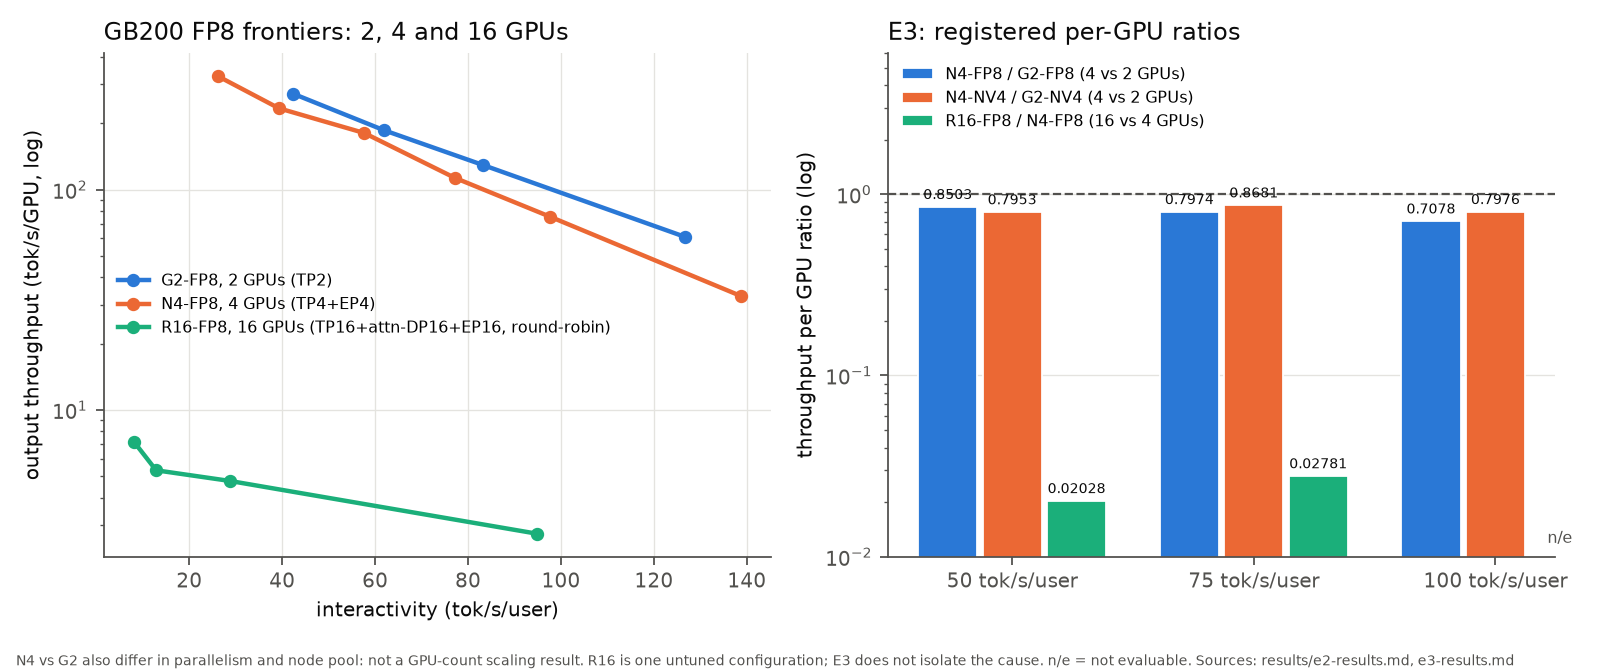
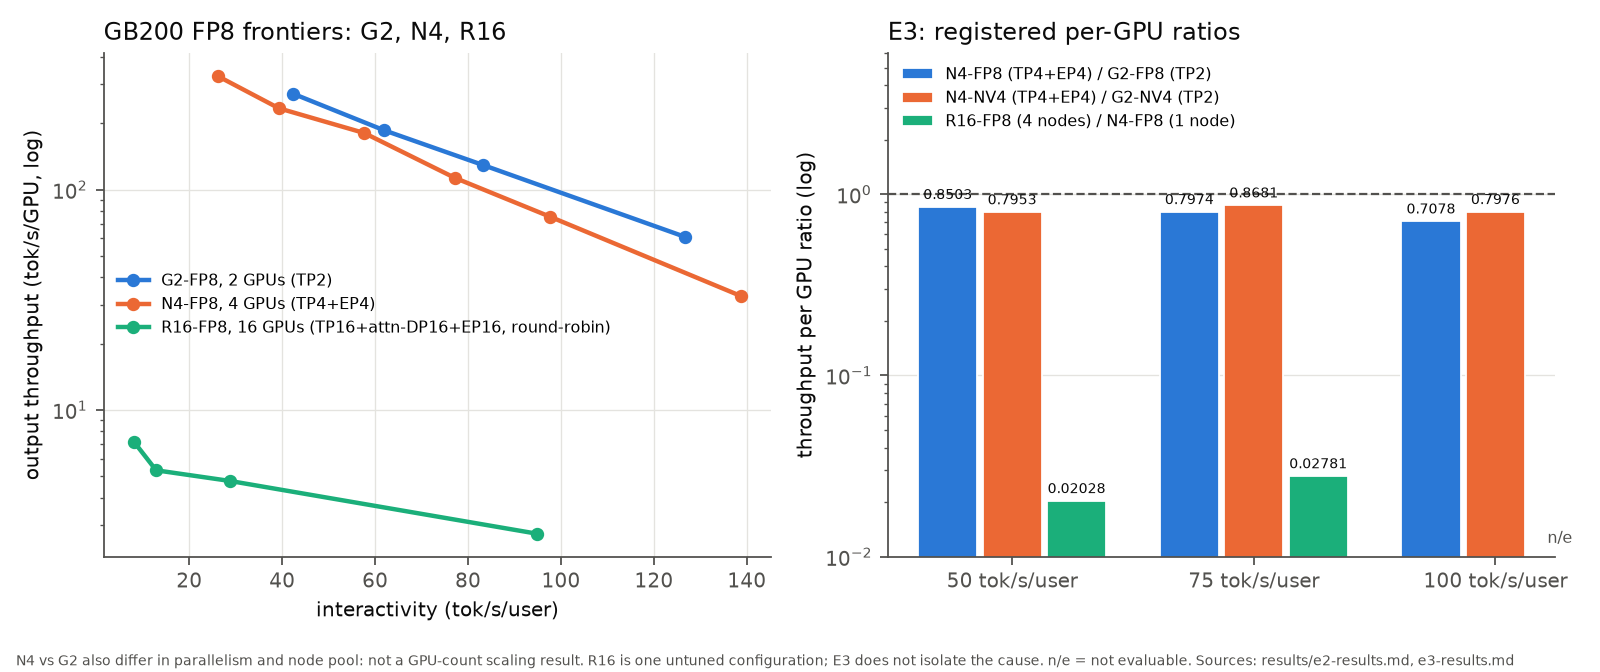
main study summary: apply independent review fixes
Drop causal wording, keep the CLASSIFIER-GAP and F-BRIDGE caveats next to
the E4 claim, label Q3 numbers as observational, and stop framing the E3
figure as GPU-count scaling.

Changed region(s): [[0.625, 0.0938, 0.7812, 0.1875], [0.2188, 0.0312, 0.375, 0.0625]]

diff --git a/main-study/figures/make_figures.py b/main-study/figures/make_figures.py
@@ -91,9 +91,9 @@ def fig_e3():
     }
     # e3-results.md:24, :25, :28
     ratios = {
-        "N4-FP8 / G2-FP8 (4 vs 2 GPUs)": [0.8503, 0.7974, 0.7078],
-        "N4-NV4 / G2-NV4 (4 vs 2 GPUs)": [0.7953, 0.8681, 0.7976],
-        "R16-FP8 / N4-FP8 (16 vs 4 GPUs)": [0.02028, 0.02781, None],
+        "N4-FP8 (TP4+EP4) / G2-FP8 (TP2)": [0.8503, 0.7974, 0.7078],
+        "N4-NV4 (TP4+EP4) / G2-NV4 (TP2)": [0.7953, 0.8681, 0.7976],
+        "R16-FP8 (4 nodes) / N4-FP8 (1 node)": [0.02028, 0.02781, None],
     }
     fig, (left, right) = plt.subplots(1, 2, figsize=(10, 4.2))
     for color, (label, pts) in zip(SERIES, frontiers.items()):
@@ -102,7 +102,7 @@ def fig_e3():
     left.set_yscale("log")
     left.set_xlabel("interactivity (tok/s/user)")
     left.set_ylabel("output throughput (tok/s/GPU, log)")
-    left.set_title("GB200 FP8 frontiers: 2, 4 and 16 GPUs", loc="left", color=INK)
+    left.set_title("GB200 FP8 frontiers: G2, N4, R16", loc="left", color=INK)
     left.legend(frameon=False, fontsize=7)
     left.grid(True, axis="x", color=GRID, linewidth=0.6)
 
@@ -151,7 +151,8 @@ def fig_e4():
         ax.set_xticklabels(classes, rotation=35, ha="right")
         ax.set_ylim(-0.6, 0.75)
         ax.set_ylabel("share of per-token GPU-time difference")
-        ax.set_title(f"E4 Q1 {pair}: no single dominant class", loc="left", color=INK)
+        flag = " (CLASSIFIER-GAP flag)" if pair.startswith("G2-FP8") else ""
+        ax.set_title(f"E4 Q1 {pair}: no single dominant class{flag}", loc="left", color=INK, fontsize=9)
         ax.legend(frameon=False, fontsize=7, loc="upper left")
 
     # e4-results.md:161-163 (Q3, R16 vs N4 at c = 1–16, observational CPU log counts)

diff --git a/main-study/SUMMARY.md b/main-study/SUMMARY.md
@@ -2,55 +2,55 @@
 
 **Question.** One MoE model, one agentic multi-turn workload, one SGLang commit: how do GB200 FP8, GB200 NVFP4 and
 H200 FP8 differ in latency, throughput per GPU and prefix-cache reuse, and where does decode-step GPU time go?
+Results: [E1](results/e1-results.md), [E2](results/e2-results.md), [E3](results/e3-results.md),
+[E4](results/e4-results.md), each frozen before running and independently scored.
 
 **Setup.**
 - Model: Qwen3-235B-A22B-Instruct-2507, public FP8 and NVFP4 checkpoints (quantized by different parties), bf16 KV cache.
-- Workload: closed-loop replay of SWE agent trajectories (`nebius/SWE-rebench-openhands-trajectories`) with recorded assistant content.
+- Workload: closed-loop replay of SWE agent sessions (`nebius/SWE-rebench-openhands-trajectories`) with recorded assistant content.
 - Platforms: 2 × GB200 TP2; 4 × GB200 TP4 + EP4; 16 × GB200 over four nodes; 2 × H200 TP2, 4 × H200 TP4, 8 × H200 TP8 + EP8; 8 × H100 TP8 + EP8 on another cluster.
-- Software: one SGLang nightly, `a6a8c56015b8`; MoE and attention backends on `auto`.
-- Evidence: frozen preregistrations, independent scoring, nsys attribution in E4. Results: [E1](results/e1-results.md), [E2](results/e2-results.md), [E3](results/e3-results.md), [E4](results/e4-results.md).
+- Software: one SGLang nightly, `a6a8c56015b8`. GB200 logged the `flashinfer_trtllm` MoE runner; the H200 MoE backend is not established.
 
 ## Headline findings
 
 1. **Same 2 GPUs, low load (E1, c = 1).** TPOT p50 is 7.943 ms on GB200 FP8, 9.932 ms on H200 FP8 (ratio 0.800) and
    6.625 ms on GB200 NVFP4 (0.834 of FP8). *Caveat:* the arms differ in kernel path, HBM bandwidth, KV capacity and
-   host CPU, so no single cause; the H200 MoE backend is not established. NVFP4 is not shown lossless: 30 GSM8K
-   questions differ against FP8 (limit 20), and top-1 agreement with BF16 is 0.94592 against 0.96967.
-2. **At c = 32 on 2 GPUs the KV cache decides the result (E1).** H200 FP8 TTFT p50 is 27,730.2 ms and its prefix hit
+   host CPU, so there is no single cause. NVFP4 is not shown lossless: 30 GSM8K questions differ against FP8 (limit
+   20), and top-1 agreement with BF16 is 0.94592 against 0.96967.
+2. **At c = 32 on 2 GPUs, serving is capacity-limited (E1).** H200 FP8 TTFT p50 is 27,730.2 ms and its prefix hit
    rate 31.07 %, against 92.64 % on GB200 FP8. *Caveat:* the KV pool is 0.16 of the working set on H200 and 0.50 on
-   GB200 FP8. This is capacity-limited serving, not GPU speed.
+   GB200 FP8, so these points measure capacity-limited serving, not GPU speed.
 3. **Each platform at its own configuration (E2, throughput per GPU at 50 / 75 / 100 tok/s/user).** GB200 FP8 TP2 ÷
    H200 TP4 = 2.0080 / 2.1141 / 2.1756; GB200 NVFP4 TP2 ÷ H200 TP4 = 3.3202 / 3.9475 / 4.3252. H200 TP8 + EP8 ÷ TP4 =
-   0.6158 / 0.5347 / 0.2827; this drop is not attributed to GPU count or expert parallelism alone. *Caveat:* output
-   tokens only; not a cost ratio or a GPU ranking. H100 ÷ H200 (0.2599 / 0.3005) ran on a different cluster, driver
-   and container runtime, so **it is not controlled**.
-4. **No single kernel class explains GB200 TP2 vs H200 TP4 (E4).** The F-DOM verdict is "no single dominant class" for
-   both pairs. For G2-FP8 vs H4 the largest share of the per-token GPU-time difference is `other_known` (on H200 almost
-   all activation and FP8 activation-quantization kernels): 0.5839 / 0.4369 / 0.6363 at B = 4 / 8 / 16. But
-   `moe_gemm` comes close (0.2800 / 0.3942 / 0.3546), and the overlap term is about as large. For H8 vs H4,
-   communication carries 0.2476 / 0.2991 / 0.3392 of the difference ("partial"). *Caveat:* descriptive, in
-   profiler-attached decode windows only, one job per configuration, no ablation. For GB200 NVFP4 vs H4 at 100
-   tok/s/user, decode steps do not account for E2's ratio (quotient 1.6394).
-5. **The 16-GPU result is a configuration effect (E3).** One untuned server across four nodes (TP16 + attention-DP16 +
-   EP16, round-robin dispatch) gives 0.02028 / 0.02781 of the 4-GPU node's throughput per GPU at 50 / 75 tok/s/user.
-   Its logs show a prefill cached fraction of 0.48–0.61 against 0.95–0.96, and 9.4–13× more new prefill tokens.
-   *Caveat:* these signals co-occur with the low ratio, but the cause is not isolated, and this is not a 16-GPU,
-   rack-scale or interconnect claim. Separately, 4 GPUs ÷ 2 GPUs on GB200 FP8 is 0.8503 / 0.7974 / 0.7078. This is
-   not GPU-count scaling, because parallelism and node pool also differ.
+   0.6158 / 0.5347 / 0.2827, which is not attributed to GPU count or expert parallelism alone. *Caveat:* output tokens
+   only; not a cost ratio or a GPU ranking. H100 ÷ H200, both 8 GPUs TP8 + EP8 (0.2599 / 0.3005), **is not
+   controlled**: different cluster, driver and container runtime.
+4. **No single kernel class dominates the GB200 TP2 vs H200 TP4 difference (E4).** The F-DOM verdict is "no single
+   dominant class" for both pairs. For G2-FP8 vs H4 the largest share of the per-token GPU-time difference is
+   `other_known` (on H200 almost all activation and FP8 activation-quantization kernels): 0.5839 / 0.4369 / 0.6363 at
+   B = 4 / 8 / 16; it dominates only at B = 4, since at B = 8 and 16 `moe_gemm` (0.3942 / 0.3546) is more than half
+   of it. The GB200 activation kernel sits in `moe_other`, a flagged CLASSIFIER-GAP that would not change
+   the verdict. For H8 vs H4, communication carries 0.2476 / 0.2991 / 0.3392 of the difference ("partial").
+   *Caveat:* descriptive, profiled decode windows only, one job per configuration, no ablation; the decode
+   attribution bridges to E2 only for G2-FP8/H4 at 75 and 100 and H8/H4 at 75.
+5. **The 16-GPU result belongs to one untuned configuration (E3).** One server across four nodes (TP16 +
+   attention-DP16 + EP16, round-robin dispatch) gives 0.02028 / 0.02781 of the one-node, 4-GPU throughput per GPU at
+   50 / 75 tok/s/user. E4 Q3 read the E3 logs after the fact (observational, not preregistered) and found a prefill
+   cached fraction of 0.48–0.61 against 0.95–0.96, and 9.4–13× more new prefill tokens. *Caveat:* these signals
+   co-occur with the low ratio, but the cause is not isolated. Not a 16-GPU, rack-scale or interconnect claim.
 
-Figures (built by [`figures/make_figures.py`](figures/make_figures.py) from the results files only):
-[E2 ratios](figures/fig1_e2_per_gpu_ratios.png) · [E3 scaling](figures/fig2_e3_scaling.png) ·
-[E4 attribution and Q3](figures/fig3_e4_attribution_q3.png).
+Figures, from [`figures/make_figures.py`](figures/make_figures.py): [E2 ratios](figures/fig1_e2_per_gpu_ratios.png) ·
+[E3 configurations](figures/fig2_e3_scaling.png) · [E4 attribution and Q3](figures/fig3_e4_attribution_q3.png).
 
 ## What this study does not show
 
 - No cost, price-per-token, energy or hardware ranking. GB200 here is not B200.
 - No single-cause attribution of any ratio. E4 splits time into classes; it does not test causes.
-- Prefix hit rates are not estimates for real agentic serving, because the replay reuses recorded answers rather than server-generated KV.
+- Prefix hit rates are not estimates for real serving, because the replay uses recorded assistant content.
 - No other model, context length, workload or SGLang version.
 
 ## What I would do next
 
-Re-run the four-node, 16-GPU configuration with cache-aware (prefix-affinity) request dispatch in place of
-round-robin, keeping every other flag fixed, under a new preregistration. This tests whether lost prefix reuse
-accounts for a large part of the 0.02028 / 0.02781 ratios. The result could go either way.
+Re-run the four-node configuration with cache-aware (prefix-affinity) dispatch in place of round-robin. Every other
+flag stays fixed, under a new preregistration. This tests whether lost prefix reuse accounts for a large part of the
+0.02028 / 0.02781 ratios, and the result could go either way.

diff --git a/main-study/TALK_2MIN.md b/main-study/TALK_2MIN.md
@@ -5,30 +5,30 @@
 Spoken numbers are rounded; the exact values are in [SUMMARY.md](SUMMARY.md) and the results files.
 
 I served one large mixture-of-experts model, Qwen3 235B, with SGLang on H200 and on GB200.
-The workload replays real coding-agent sessions, so every turn resends a long shared prefix.
-I froze each experiment's predictions before running it, and someone else scored the raw data.
+The workload replays real coding-agent sessions; at low load the prefix-cache hit rate is about 95 percent.
+I froze the predictions before each run, and someone else scored the raw data.
+Most first-round predictions confirmed directions I had seen in pilot runs.
 
-First, on the same two GPUs at low load, GB200 FP8 decodes faster than H200 FP8.
-The time per output token is 7.9 against 9.9 milliseconds.
-NVFP4 on GB200 is faster again, 6.6 milliseconds, but it is not lossless.
-More of its answers change than the preregistered limit allows, and it agrees less often with a BF16 reference.
+First, on the same two GPUs at low load, GB200 FP8 decodes faster than H200 FP8: 7.9 against 9.9 milliseconds per token.
+NVFP4 on GB200 is faster again, 6.6 milliseconds, but not lossless.
+More answers change than the preregistered limit allows, and it agrees less often with a BF16 reference.
 
-Second, at 32 concurrent sessions on two H200s, the KV cache holds only 16 percent of the working set.
+Second, at 32 sessions on two H200s, the KV cache holds only 16 percent of the working set.
 Prefix hits fall to 31 percent, and time to first token reaches 27.7 seconds.
 That is a capacity limit, not GPU speed.
 
-Third, I let each platform use its own configuration and compared throughput per GPU at the same interactivity.
-GB200 FP8 on two GPUs gives 2.0 to 2.2 times H200 on four GPUs, and NVFP4 gives about 3.3 to 4.3 times.
-Going from four H200s to eight with expert parallelism lowers throughput per GPU.
+Third, each platform used its own configuration, and I compared throughput per GPU at the same interactivity.
+GB200 FP8 on two GPUs gives 2.0 to 2.2 times H200 on four GPUs; NVFP4 gives 3.3 to 4.3 times.
+That is output tokens only, not cost.
+Eight H200s with expert parallelism give less per GPU than four, and I don't pin that on one factor.
 
-Fourth, I profiled decode steps with nsys to see where the gap goes.
-No single kernel class dominates.
-Activation and quantization kernels on H200 and the MoE GEMMs both carry large shares, and so does kernel overlap.
+Fourth, I profiled decode steps with nsys and split GPU time by kernel class.
+No single class dominates.
+Activation and quantization kernels on H200 and the MoE GEMMs both carry large shares, and the overlap correction is about as large.
 
-Last, one untuned server across four GB200 nodes gave only about 2 to 3 percent of a single node's throughput per GPU.
-It used round-robin dispatch, and its cached prefill fraction fell from about 95 percent to between 48 and 61 percent.
-I did not isolate the cause.
-So the next experiment is the same setup with cache-aware routing.
+Last, one untuned server across four GB200 nodes gave only 2 to 3 percent of one node's throughput per GPU.
+It used round-robin dispatch, and its cached prefill fraction was 48 to 61 percent, against about 95 on one node.
+I did not isolate the cause, so the next experiment is the same setup with cache-aware routing.
 
 ## Likely questions
 
@@ -42,15 +42,16 @@ A: KV capacity. The pool was 0.16 of the working set, prefix hits fell to 31.07 
 seconds. At that point I am measuring eviction and queueing, not kernel speed.
 
 **Q: Why did eight H200s give less per GPU than four?**
-A: I measured that it did: 0.6158 to 0.2827 of the four-GPU value. In decode windows communication carries 0.2476 to 0.3392 of the
-per-token GPU-time difference, and the `other_known` class is the largest other term. I have
-no ablation, so I don't name one cause.
+A: I measured that it did: about 0.62 down to 0.28 of the four-GPU value. In decode windows communication carries
+about a quarter to a third of the per-token GPU-time difference, and the activation and quantization kernels are the
+largest other term. The decode numbers match the serving ratio only at 75 tokens per second per user. I have no
+ablation, so I don't name one cause.
 
 **Q: Is NVFP4 safe to use?**
 A: GSM8K accuracy was about the same, 95.45 against 95.53 percent. But 30 questions changed answers against FP8, over the
 limit of 20, and top-1 agreement with BF16 was 0.946 against 0.970. So I can't call it lossless.
 
 **Q: Why was the 16-GPU server so slow?**
-A: I don't know the cause. It was one untuned configuration with round-robin dispatch. The logs show much less
-prefix reuse, many more prefill tokens and more decode steps without CUDA graphs. Those co-occur with the slowdown,
+A: I don't know the cause. It was one untuned configuration with round-robin dispatch. The logs, read after the fact and not
+preregistered, show much less prefix reuse, many more prefill tokens and more decode log lines without CUDA graphs. Those co-occur with the slowdown,
 but nothing isolates which one matters. Cache-aware routing is the experiment that would test the first.

diff --git a/main-study/WHAT_I_LEARNED_SCAFFOLD.md b/main-study/WHAT_I_LEARNED_SCAFFOLD.md
@@ -7,11 +7,10 @@ write down what you would need to measure.
 1. On 2 × H200 at c = 32, the KV pool is 0.16 of the working set. Walk through what the server does when a new turn
    arrives and its prefix has been evicted. Why does that show up mostly in TTFT, and why is it not a statement about
    GPU speed?
-2. Why does throughput per GPU fall when H200 goes from TP4 to TP8 + EP8 here? What does E4's "partial" F-COMM
-   verdict let you say, and what would you need before naming a cause?
-3. In E4, `other_known` on H200 is mostly the activation kernel and the FP8 activation-quantization kernel. Why might
-   these small elementwise kernels carry a large share of per-token time at small decode batches? What GB200 kernel
-   sits in a different class, and why does that matter for the comparison?
+2. What do the results let you say about why throughput per GPU falls when H200 goes from TP4 to TP8 + EP8, and
+   what does E4's "partial" F-COMM verdict rule out? What would you need before naming a cause?
+3. In E4, which kernels make up most of `other_known` on H200 at each B, and what would you need to measure to
+   explain their share? What GB200 kernel sits in a different class, and why does that matter for the comparison?
 4. The overlap term in E4 is about as large as the biggest class share. What does "sum basis" mean, why can the class
    shares add up to more than 1, and how would a union-basis view change the story?
 5. F-BRIDGE fires for GB200 NVFP4 vs H200 TP4 at 100 tok/s/user. What does it mean that decode steps alone do not
